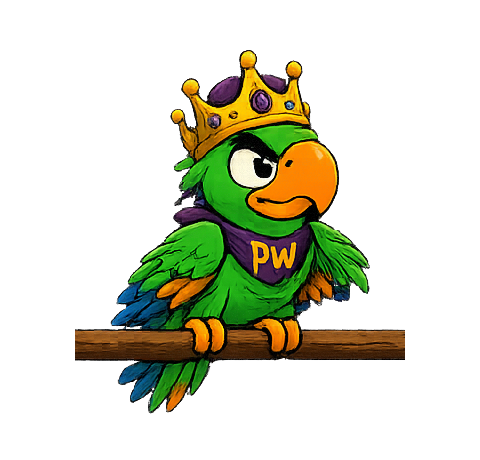
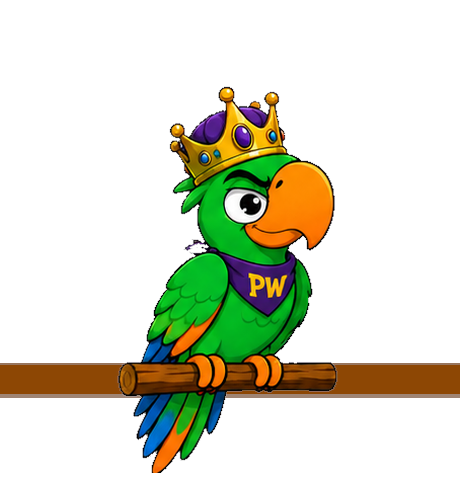
polly

Changed region(s): [[0.0, 0.0913, 1.0, 0.9435]]

diff --git a/app/hooks/usePollyAnimator.ts b/app/hooks/usePollyAnimator.ts
@@ -1,6 +1,7 @@
 import { useCallback, useEffect, useRef, useState } from 'react';
 import { Animated, Easing, Dimensions } from 'react-native';
 import type { PollyPose } from '../components/ui/PollySprite';
+import { FLYING_POSES } from '../components/ui/PollySprite';
 import { playSfx } from '../audio/sfx';
 
 export type PollyEvent =
@@ -37,11 +38,11 @@ const BRANCH_MIN_X = SCREEN_W * 0.08;
 const BRANCH_MAX_X = SCREEN_W * 0.78; // leaves room for her own width
 
 const STATE_SIZE: Record<PollyState, number> = {
-  idle:        120,
-  interested:  130,
-  taunting:    130,
-  aggressive:  140,
-  defeated:    110,
+  idle:        150,
+  interested:  160,
+  taunting:    165,
+  aggressive:  170,
+  defeated:    135,
 };
 
 const STATE_BREATH_MS: Record<PollyState, number> = {
@@ -53,13 +54,13 @@ const STATE_BREATH_MS: Record<PollyState, number> = {
 };
 
 const REACTION_SIZE = {
-  wrong1:     150,
-  wrong2:     155,
-  wrong3:     165,
-  shocked:    145,
-  laugh:      155,
+  wrong1:     168,
+  wrong2:     172,
+  wrong3:     175,
+  shocked:    162,
+  laugh:      172,
   bossFail:   175,
-  bossMaster: 110,
+  bossMaster: 140,
 } as const;
 
 function clampBranchX(x: number) {
@@ -95,6 +96,7 @@ export function usePollyAnimator(
   const pollyX = useRef(new Animated.Value(SCREEN_W * 0.2)).current;
   const facingLeftToRight = useRef(true); // true = scaleX 1, false = scaleX -1
   const [facingFlip, setFacingFlip] = useState(1);
+  const [isFlying, setIsFlying] = useState(false);
 
   // ── Hop (Y offset from branch) ──────────────────────────────────
   const hopY = useRef(new Animated.Value(0)).current;
@@ -138,21 +140,25 @@ export function usePollyAnimator(
   // ── Wander (idle drift along branch) ─────────────────────────────
   function scheduleWander() {
     if (wanderTimerRef.current !== null) clearTimeout(wanderTimerRef.current);
-    const delay = 3000 + Math.random() * 4000;
+    // Pause at current position — long rest, short travel
+    const pauseMs = 2200 + Math.random() * 3000;
     wanderTimerRef.current = setTimeout(() => {
       if (wanderingPausedRef.current) { scheduleWander(); return; }
-      const targetX = clampBranchX(Math.random() * SCREEN_W);
+      const targetX = clampBranchX(
+        BRANCH_MIN_X + Math.random() * (BRANCH_MAX_X - BRANCH_MIN_X),
+      );
       const goingRight = targetX > (pollyX as any)._value;
       facingLeftToRight.current = goingRight;
       setFacingFlip(goingRight ? 1 : -1);
-      const dur = 1800 + Math.random() * 1400;
+      // Quick decisive step — not a slide
+      const travelMs = 280 + Math.random() * 320;
       Animated.timing(pollyX, {
         toValue: targetX,
-        duration: dur,
-        easing: Easing.inOut(Easing.quad),
+        duration: travelMs,
+        easing: Easing.out(Easing.cubic),
         useNativeDriver: true,
       }).start(() => scheduleWander());
-    }, delay);
+    }, pauseMs);
   }
 
   function pauseWander() {
@@ -193,6 +199,18 @@ export function usePollyAnimator(
       Animated.timing(rotate, { toValue: 4,  duration: 200, useNativeDriver: true }),
       Animated.timing(rotate, { toValue: 0,  duration: 200, useNativeDriver: true }),
     ]).start();
+  }
+
+  // Launch off the branch using fly pose, land back on returnPose
+  function launchReact(returnPose: PollyPose, holdMs: number) {
+    breathLoopRef.current?.stop();
+    setCurrentPose('flyExcited');
+    setIsFlying(true);
+    setTimeout(() => {
+      setCurrentPose(returnPose);
+      setIsFlying(false);
+      startBreathing();
+    }, holdMs);
   }
 
   function hopBig(shake?: boolean) {
@@ -325,11 +343,10 @@ export function usePollyAnimator(
           hopSmall();
         } else {
           advanceState('aggressive');
-          setCurrentPose('perchLaughing');
           setSpeech('BBBLAAAAHHAHAHA!', 2400);
           bumpSize(REACTION_SIZE.wrong3, 2400);
           playSfx('pollySqwawkLaugh');
-          hopBig(true);
+          launchReact('perchLaughing', 900);
         }
         setTimeout(resumeWander, 2600);
         break;
@@ -354,10 +371,9 @@ export function usePollyAnimator(
 
       case 'ghostFoundLate':
         setGhostTint(0);
-        setCurrentPose('perchLaughing');
         setSpeech('LUCKY.', 2000);
         bumpSize(REACTION_SIZE.laugh, 2000);
-        hopBig();
+        launchReact('perchLaughing', 900);
         break;
 
       case 'ghostDissolved':
@@ -414,11 +430,10 @@ export function usePollyAnimator(
 
       case 'gameOver':
         advanceState('aggressive');
-        setCurrentPose('perchLaughing');
         setSpeech('BBBLAAAAHHAHAHA!', 2600);
         bumpSize(REACTION_SIZE.laugh, 2600);
         playSfx('pollySqwawkLaugh');
-        laughBob();
+        launchReact('perchLaughing', 900);
         break;
 
       case 'gateMastered':
@@ -438,19 +453,17 @@ export function usePollyAnimator(
         break;
 
       case 'hiddenMasterFailed':
-        setCurrentPose('perchLaughing');
         setSpeech('I WIN', 2400);
         bumpSize(REACTION_SIZE.bossFail, 2400);
         playSfx('pollySqwawkLaugh');
-        hopBig();
+        launchReact('perchLaughing', 900);
         break;
 
       case 'hauntFailed':
-        setCurrentPose('perchLaughing');
         setSpeech('BBBLAAAAHHAHAHA!', 2600);
         bumpSize(REACTION_SIZE.laugh, 2600);
         playSfx('pollySqwawkLaugh');
-        laughBob();
+        launchReact('perchLaughing', 900);
         break;
     }
   }, []); // eslint-disable-line react-hooks/exhaustive-deps
@@ -500,6 +513,7 @@ export function usePollyAnimator(
       ],
     },
     ghostTintOpacity,
+    isFlying,
     firePollyEvent,
   };
 

diff --git a/app/components/ui/PollySprite.tsx b/app/components/ui/PollySprite.tsx
@@ -2,28 +2,37 @@ import React from 'react';
 import { Image, ImageStyle } from 'react-native';
 
 export type PollyPose =
-  | 'flyExcited'       // polly_01 — mid-round fly-in entrance
-  | 'flyRelaxed'       // polly_02 — end-of-round fly-in
-  | 'perchNeutral'     // polly_03 — default perch / idle
-  | 'perchDismissive'  // polly_04 — trap rejected, Polly annoyed
-  | 'perchLaughing'    // polly_05 — haunt created / run clipped, Polly wins
-  | 'perchSmug'        // polly_06 — wrong swipe, "Thought so."
-  | 'perchPointing'    // polly_07 — boss word throw, master tile drops
-  | 'perchShocked'     // polly_08 — player perfect clear, Polly surprised
-  | 'perchSulking'     // polly_09 — player masters word, Polly loses
-  | 'flyAngry'         // polly_10 — "YOU BEAT POLLY"
+  | 'flyExcited'       // polly_fly_excited — big reaction launch
+  | 'flyRelaxed'       // polly_fly_relaxed — wander transition
+  | 'flyAngry'         // polly_fly_angry   — beat Polly
+  | 'perchNeutral'     // polly_neutral      — default idle
+  | 'perchDismissive'  // polly_dismissive   — first correct swipe
+  | 'perchLaughing'    // polly_laughing     — Polly wins
+  | 'perchSmug'        // polly_smug         — wrong x1
+  | 'perchPointing'    // polly_pointing     — hesitation taunts
+  | 'perchShocked'     // polly_shocked      — perfect clear
+  | 'perchSulking';    // polly_sulking      — player masters word
+
+// Canvas: 460w × 500h. Branch top sits at 73% down the canvas.
+const W_RATIO = 460 / 500;
+export const POLLY_BRANCH_BOTTOM_FRACTION = 0.73;
+
+// Flying poses — used to conditionally hide the fixed branch in MaskBoard
+export const FLYING_POSES = new Set<PollyPose>([
+  'flyExcited', 'flyRelaxed', 'flyAngry',
+]);
 
 const POSE_IMAGES: Record<PollyPose, ReturnType<typeof require>> = {
-  flyExcited:      require('../../../assets/images/Polly/polly_01.png'),
-  flyRelaxed:      require('../../../assets/images/Polly/polly_02.png'),
-  perchNeutral:    require('../../../assets/images/Polly/polly_03.png'),
-  perchDismissive: require('../../../assets/images/Polly/polly_04.png'),
-  perchLaughing:   require('../../../assets/images/Polly/polly_05.png'),
-  perchSmug:       require('../../../assets/images/Polly/polly_06.png'),
-  perchPointing:   require('../../../assets/images/Polly/polly_07.png'),
-  perchShocked:    require('../../../assets/images/Polly/polly_08.png'),
-  perchSulking:    require('../../../assets/images/Polly/polly_09.png'),
-  flyAngry:        require('../../../assets/images/Polly/polly_10.png'),
+  flyExcited:      require('../../../assets/images/Polly/polly_fly_excited.png'),
+  flyRelaxed:      require('../../../assets/images/Polly/polly_fly_relaxed.png'),
+  flyAngry:        require('../../../assets/images/Polly/polly_fly_angry.png'),
+  perchNeutral:    require('../../../assets/images/Polly/polly_neutral.png'),
+  perchDismissive: require('../../../assets/images/Polly/polly_dismissive.png'),
+  perchLaughing:   require('../../../assets/images/Polly/polly_laughing.png'),
+  perchSmug:       require('../../../assets/images/Polly/polly_smug.png'),
+  perchPointing:   require('../../../assets/images/Polly/polly_pointing.png'),
+  perchShocked:    require('../../../assets/images/Polly/polly_shocked.png'),
+  perchSulking:    require('../../../assets/images/Polly/polly_sulking.png'),
 };
 
 interface PollySpriteProps {
@@ -36,7 +45,7 @@ export default function PollySprite({ pose, size, style }: PollySpriteProps) {
   return (
     <Image
       source={POSE_IMAGES[pose]}
-      style={[{ width: size, height: size }, style]}
+      style={[{ width: size * W_RATIO, height: size }, style]}
       resizeMode="contain"
     />
   );

diff --git a/app/components/MaskBoard.tsx b/app/components/MaskBoard.tsx
@@ -16,7 +16,7 @@ import { useGameStore } from '../store/useGameStore';
 import { SwipeMask, SwipeMaskState } from './SwipeMask';
 import { ScoreFloat } from './ScoreFloat';
 import HeroBook from './ui/HeroBook';
-import PollySprite from './ui/PollySprite';
+import PollySprite, { POLLY_BRANCH_BOTTOM_FRACTION } from './ui/PollySprite';
 import { usePollyAnimator } from '../hooks/usePollyAnimator';
 import { playRoundComplete } from '../utils/SoundEngine';
 import { playSfx } from '../audio/sfx';
@@ -314,6 +314,7 @@ export function MaskBoard({ step, spawnEffect, onTrapCaught, onWrongSwipe }: Pro
     ghostTintOpacity,
     pollyAnimatedStyle,
     currentSize,
+    isFlying,
     pollyPositionStyle,
   } = usePollyAnimator(store.game.streak, store.game.lives, store.game.stepIndex);
 
@@ -1870,6 +1871,17 @@ export function MaskBoard({ step, spawnEffect, onTrapCaught, onWrongSwipe }: Pro
           />
       ))}
 
+      {/* Fixed background branch — hidden when Polly is airborne */}
+      {!isFlying && (
+        <View
+          pointerEvents="none"
+          style={[
+            styles.pollyFixedBranch,
+            { bottom: 18 + currentSize * (1 - POLLY_BRANCH_BOTTOM_FRACTION) },
+          ]}
+        />
+      )}
+
       {/* Polly — always present, wandering the branch, scales with state */}
       <Animated.View style={[styles.pollyAnchor, pollyPositionStyle]} pointerEvents="none">
         <Animated.View style={pollyAnimatedStyle}>
@@ -2525,6 +2537,17 @@ const styles = StyleSheet.create({
     width: 130,
     height: 130,
     zIndex: 6,
+  },
+  pollyFixedBranch: {
+    position: 'absolute',
+    left: 0,
+    right: 0,
+    height: 12,
+    borderRadius: 6,
+    backgroundColor: '#8A5A2E',
+    borderWidth: 1,
+    borderColor: 'rgba(0,0,0,0.25)',
+    zIndex: 5,
   },
   speechBubble: {
     position: 'absolute',
